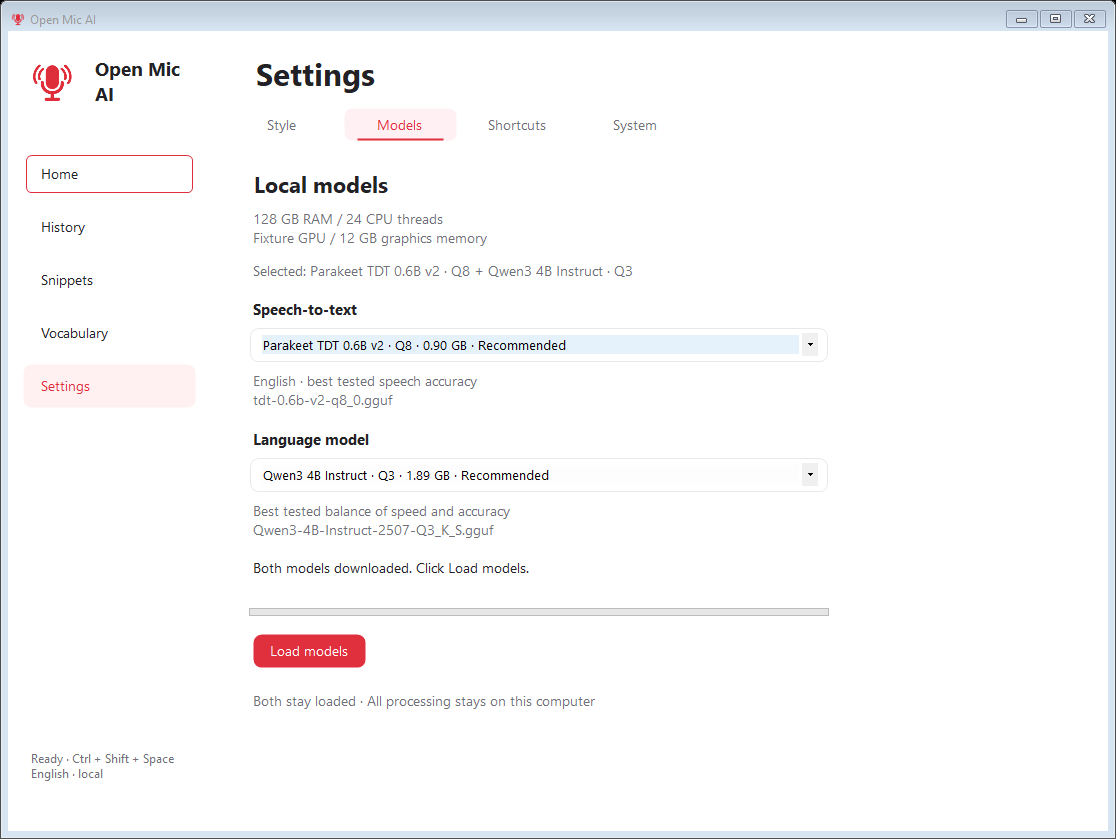
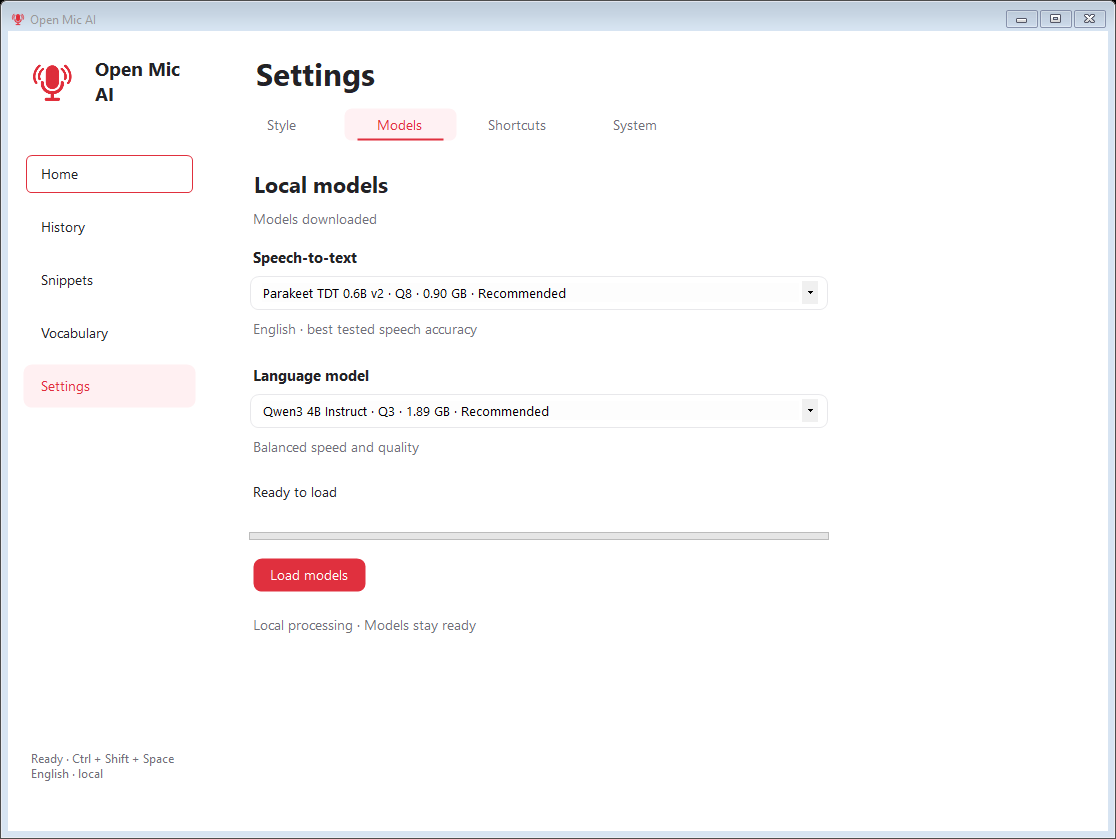
Refine wording controls and fix Mac shortcut compilation

diff --git a/macos/Sources/OpenMicAI/AppState.swift b/macos/Sources/OpenMicAI/AppState.swift
@@ -1,6 +1,7 @@
 import AppKit
 import AVFoundation
 import ApplicationServices
+import Carbon
 import OpenMicCore
 
 @MainActor final class AppState: ObservableObject {
@@ -39,7 +40,9 @@ import OpenMicCore
         root = dataRoot
         try FileManager.default.createDirectory(at: dataRoot, withIntermediateDirectories: true)
         func read<T: Decodable>(_ name: String, _ fallback: T) -> T { (try? JSONDecoder().decode(T.self, from: Data(contentsOf: dataRoot.appendingPathComponent(name)))) ?? fallback }
-        preferences = read("preferences.json", Preferences()); history = read("history.json", []); snippets = read("snippets.json", []); vocabulary = read("vocabulary.json", [])
+        var recommended = Preferences()
+        if ProcessInfo.processInfo.physicalMemory < 12 * 1_073_741_824 { recommended.speechModel = "ggml-base.en.bin"; recommended.languageModel = "Qwen3-1.7B-Q4_K_M.gguf" }
+        preferences = read("preferences.json", recommended); history = read("history.json", []); snippets = read("snippets.json", []); vocabulary = read("vocabulary.json", [])
         models = try LocalModels(root: root)
         models.status = { [weak self] in self?.status = $0 }
         hotkey.pressed = { [weak self] in self?.shortcut() }

diff --git a/macos/Sources/OpenMicAI/Hotkey.swift b/macos/Sources/OpenMicAI/Hotkey.swift
@@ -16,7 +16,7 @@ import Carbon
             let released = GetEventKind(event) == UInt32(kEventHotKeyReleased)
             DispatchQueue.main.async { if !owner.capturing { if released { owner.released() } else { owner.pressed() } } }
             return noErr
-        }, UInt32(events.count), &events, pointer, &handler)
+        }, events.count, &events, pointer, &handler)
     }
     func register(code: UInt32, modifiers: UInt32) throws {
         let identifier = EventHotKeyID(signature: 0x4F4D4943, id: 1)

diff --git a/windows/validation/FeatureChecks.cs b/windows/validation/FeatureChecks.cs
@@ -37,17 +37,17 @@ public static class FeatureChecks {
         }
         Settings prefs=new Settings {SaveHistory=false,ShowBar=false,HoldMouse="Mouse 5",Cleanup="Medium",Sounds=true,MutePlayback=true};prefs.Save(root);Settings restored=Settings.Load(root);check(!restored.SaveHistory&&!restored.ShowBar&&restored.HoldMouse=="Mouse 5"&&restored.Cleanup=="Medium"&&restored.Sounds&&restored.MutePlayback,"Settings survive restart");
         using(SettingsWindow window=new SettingsWindow(prefs,new[]{"Ctrl + Shift + Space"})){Settings saved=null;window.Saved=value=>saved=value;window.Show();window.SelectSection("Style");ChoiceCard[] options=All(window).OfType<ChoiceCard>().Where(c=>StyleOptions.Names.Contains(c.Caption)).ToArray();check(options.Select(c=>c.Caption).SequenceEqual(StyleOptions.Names),"Style has exactly four clear cards");check(!All(window).OfType<ComboBox>().Any(c=>c.Items.Contains("Default")),"Style for and app overrides are removed");options.Single(c=>c.Caption=="Raw transcript").Checked=true;All(window).OfType<Button>().Single(b=>b.Text=="Save style").PerformClick();check(saved!=null&&!saved.Rewrite&&saved.Cleanup=="None"&&saved.Style=="Original transcript"&&!saved.SaveHistory&&saved.HoldMouse=="Mouse 5","Raw transcript bypasses AI and preserves unrelated preferences");
-            ChoiceCard card=options.Single(c=>c.Caption=="Polish");PostMessage(card.Handle,0x201,new IntPtr(1),new IntPtr((25<<16)|25));PostMessage(card.Handle,0x202,IntPtr.Zero,new IntPtr((25<<16)|25));await Task.Delay(80);check(card.Checked&&options.Count(c=>c.Checked)==1,"Clicking a style card selects exactly one style");All(window).OfType<Button>().Single(b=>b.Text=="Save style").PerformClick();check(saved.Style=="Smart formatting"&&saved.Cleanup=="Medium"&&saved.Rewrite,"Polish enables cleanup and formatting");options.Single(c=>c.Caption=="Clean up").Checked=true;All(window).OfType<Button>().Single(b=>b.Text=="Save style").PerformClick();check(saved.Style=="Keep my wording"&&saved.Cleanup=="Light","Clean up selects minimal filler and grammar editing");
+            ChoiceCard card=options.Single(c=>c.Caption=="Polish");PostMessage(card.Handle,0x201,new IntPtr(1),new IntPtr((25<<16)|25));PostMessage(card.Handle,0x202,IntPtr.Zero,new IntPtr((25<<16)|25));await Task.Delay(80);check(card.Checked&&options.Count(c=>c.Checked)==1,"Clicking a style card selects exactly one style");All(window).OfType<Button>().Single(b=>b.Text=="Save style").PerformClick();check(saved.Style=="Smart formatting"&&saved.Cleanup=="Medium"&&saved.Rewrite,"Polish enables cleanup and formatting");ChoiceCard own=All(window).OfType<ChoiceCard>().Single(c=>c.Caption=="My words"),reword=All(window).OfType<ChoiceCard>().Single(c=>c.Caption=="Reworded");check(own.Visible&&reword.Visible&&own.Checked&&!saved.PolishReworded,"Polish shows two wording options with My words selected by default");reword.Checked=true;All(window).OfType<Button>().Single(b=>b.Text=="Save style").PerformClick();check(saved.PolishReworded&&!own.Checked&&reword.Checked,"Reworded selects exclusively and saves with Polish");saved.Save(root);check(Settings.Load(root).PolishReworded&&StyleRouting.Resolve(saved,"fixture").PolishReworded,"Polish wording option survives restart and reaches dictation routing");own.Checked=true;All(window).OfType<Button>().Single(b=>b.Text=="Save style").PerformClick();check(!saved.PolishReworded,"My words can be restored");options.Single(c=>c.Caption=="Clean up").Checked=true;All(window).OfType<Button>().Single(b=>b.Text=="Save style").PerformClick();check(saved.Style=="Keep my wording"&&saved.Cleanup=="Light","Clean up selects minimal filler and grammar editing");
             options.Single(c=>c.Caption=="Custom").Checked=true;TextBox instructions=All(window).OfType<TextBox>().Single(t=>t.Multiline);instructions.Text="Use short sentences.";All(window).OfType<Button>().Single(b=>b.Text=="Save style").PerformClick();check(saved.Style=="Custom"&&saved.Custom==instructions.Text&&instructions.Visible&&instructions.Height>=200,"Custom reveals a large inline prompt box and saves instructions");saved.AppStyles.Add(new AppStyle {Application="chrome",Style="Professional",Cleanup="Light"});check(StyleRouting.Resolve(saved,"CHROME").Style=="Custom"&&StyleRouting.Resolve(saved,"other").Custom==instructions.Text,"One global style applies across every app even with legacy overrides");saved.Save(root);check(StyleOptions.Selected(Settings.Load(root))=="Custom","Global custom style survives restart");All(window).OfType<Button>().Single(b=>b.Text=="Save style").PerformClick();check(saved.AppStyles.Count==0,"Saving global style clears legacy app overrides");check(All(window).OfType<TabPage>().Select(t=>t.Text).SequenceEqual(new[]{"Style","Models","Shortcuts","System"}),"Settings has four focused sections");window.Close();}
         UsageStore usage=new UsageStore(root);usage.Record("one two three four","One two three four.",2,"chrome",DateTime.Now.Date.ToUniversalTime());usage.Record("five six","five six",1,"chrome",DateTime.Now.Date.AddDays(-1).ToUniversalTime());await usage.FlushAsync();UsageStore resumed=new UsageStore(root);check(resumed.Data.Words==6&&resumed.Data.Sessions==2&&resumed.WordsPerMinute==120&&resumed.Streak(DateTime.Today)==2,"Local usage totals, speaking rate and streak survive restart");string stats=File.ReadAllText(Path.Combine(root,"usage.json"));check(!stats.Contains("one two")&&!stats.Contains("five six"),"Usage stores counts without spoken text");resumed.Record("untimed sample","",0,"Other",DateTime.UtcNow);check(resumed.WordsPerMinute==120,"Untimed text does not distort speaking speed");resumed.Clear();await resumed.FlushAsync();check(new UsageStore(root).Data.Sessions==0,"Reset usage clears saved statistics");
         HistoryStore history=new HistoryStore(root);history.Add("um please send the report tomorrow","Please send the report tomorrow.","Keep my wording");await history.FlushAsync();
-        Settings hubPrefs=new Settings();Func<ModelWindow> factory=()=>new ModelWindow(fixture,hubPrefs,new ComputerSpecs {RamBytes=128L*1073741824,GpuBytes=12L*1073741824,Gpu="Fixture GPU"});
+        Settings hubPrefs=new Settings();StyleOptions.Apply(hubPrefs,"Polish");Func<ModelWindow> factory=()=>new ModelWindow(fixture,hubPrefs,new ComputerSpecs {RamBytes=128L*1073741824,GpuBytes=12L*1073741824,Gpu="Fixture GPU"});
         using(HubWindow hub=new HubWindow(history,personal,usage,()=>hubPrefs,value=>hubPrefs=value,factory,new[]{"Ctrl + Shift + Space"},"Ctrl + Shift + E")) {
             hub.Show();hub.SetStatus("Ready · Ctrl + Shift + Space");await Task.Delay(120);check(Field<FlowLayoutPanel>(hub,"navigation").Controls.OfType<Button>().Select(b=>b.Text).SequenceEqual(new[]{"Home","History","Snippets","Vocabulary","Settings"}),"Sidebar has five focused sections with Features and Scratchpad removed");
             foreach(string page in new[]{"Home","Vocabulary","Snippets","Settings","Style","Models","History"}){hub.Navigate(page);await Task.Delay(70);check(Field<Form>(hub,"page")!=null,"Hub navigation works: "+page);Render(hub,"hub-"+page.ToLowerInvariant()+".png",output);}
             hub.Navigate("History");check(!All(Field<Form>(hub,"page")).OfType<Button>().Any(b=>b.Text.Contains("Home"))&&!Field<Panel>(hub,"content").Controls.OfType<Panel>().Any(),"History has no top back or Home button");
             for(int i=0;i<7;i++)history.Add("Synthetic dictation "+i,"Synthetic dictation "+i,"Clean up");history.Add("Source","Summary","Summarize","Source");hub.Navigate("Home");check(All(hub).OfType<Button>().Count(b=>b.Text=="Copy")==5,"Home shows only the five latest dictations");
-            hub.Navigate("Models");ModelWindow models=All(hub).OfType<ModelWindow>().Single();check(!models.TopLevel&&models.Visible&&Application.OpenForms.Cast<Form>().Count(f=>f.TopLevel&&f is ModelWindow)==0,"Models remain embedded in Settings without a popup");check(All(models).OfType<Label>().Any(l=>l.Text.Contains("tdt-0.6b-v2-q8_0.gguf"))&&All(models).OfType<Label>().Any(l=>l.Text.Contains("Qwen3-4B-Instruct-2507-Q3_K_S.gguf")),"Models displays both exact model names and roles");bool applied=false;models.ApplyModels=pair=>Task.FromResult(applied=pair.Id=="balanced");All(models).OfType<Button>().Single(b=>b.Text=="Load models").PerformClick();for(int i=0;i<150&&!applied;i++)await Task.Delay(100);check(applied&&models.Visible&&!models.IsDisposed,"Installed models can be verified and applied without closing Settings");
+            hub.Navigate("Models");ModelWindow models=All(hub).OfType<ModelWindow>().Single();check(!models.TopLevel&&models.Visible&&Application.OpenForms.Cast<Form>().Count(f=>f.TopLevel&&f is ModelWindow)==0,"Models remain embedded in Settings without a popup");check(All(models).OfType<ComboBox>().Any(c=>c.AccessibleName=="Speech-to-text"&&((ModelFile)c.SelectedItem).Name=="tdt-0.6b-v2-q8_0.gguf")&&All(models).OfType<ComboBox>().Any(c=>c.AccessibleName=="Language model"&&((ModelFile)c.SelectedItem).Name=="Qwen3-4B-Instruct-2507-Q3_K_S.gguf"),"Models displays both exact model names and roles");bool applied=false;models.ApplyModels=pair=>Task.FromResult(applied=pair.Id=="balanced");All(models).OfType<Button>().Single(b=>b.Text=="Load models").PerformClick();for(int i=0;i<150&&!applied;i++)await Task.Delay(100);check(applied&&models.Visible&&!models.IsDisposed,"Installed models can be verified and applied without closing Settings");
             hub.ClientSize=new Size(950,740);hub.Navigate("Style");hub.PerformLayout();SettingsWindow settings=Field<Form>(hub,"page") as SettingsWindow;check(settings!=null&&All(settings).OfType<Button>().Single(b=>b.Text=="Save style").Right<=settings.ClientSize.Width,"Settings fit the minimum hub size");Render(hub,"hub-style-minimum.png",output);hub.Navigate("Snippets");All(hub).OfType<Button>().Single(b=>b.Text=="Add snippet").PerformClick();Render(hub,"hub-snippet-editor-minimum.png",output);hub.Close();
         }
         using(Pill bar=new Pill()){bar.Persistent=true;bar.Available=true;int starts=0;bar.Start=()=>starts++;bar.ShowIdle();await Task.Delay(60);check(bar.Idle&&bar.ResultReady==false&&bar.Width<=247&&bar.Height<=38,"Compact bar shows idle dictation controls");Render(bar,"flow-bar-preview.png",output);PostMessage(bar.Handle,0x201,new IntPtr(1),new IntPtr((19<<16)|80));PostMessage(bar.Handle,0x202,IntPtr.Zero,new IntPtr((19<<16)|80));await Task.Delay(60);check(starts==1,"Persistent bar starts dictation with one click");FocusTarget focus=FocusTarget.Capture();Point origin=bar.Location;PostMessage(bar.Handle,0x201,new IntPtr(1),new IntPtr((19<<16)|12));PostMessage(bar.Handle,0x200,new IntPtr(1),new IntPtr((40<<16)|52));PostMessage(bar.Handle,0x202,IntPtr.Zero,new IntPtr((19<<16)|12));await Task.Delay(80);check(bar.Pinned&&bar.Location!=origin&&focus.MatchesCurrent(),"Bar drags freely without taking focus or triggering dictation");Point pinned=bar.Location;bar.Place(form.Handle);check(bar.Location==pinned,"Pinned bar position survives field changes");bar.Prepare("Listening",true);bar.UpdateTranscript("Please send the report to Sarah tomorrow.");bar.Reveal();check(bar.TranscriptText.Contains("Sarah")&&Field<System.Windows.Forms.Timer>(bar,"animation").Enabled,"Recording bar shows recognized text and animates");Render(bar,"recording-pill.png",output);bar.ShowProcessing(true);await Task.Delay(100);check(bar.Processing&&!bar.Recording&&bar.TranscriptText.Contains("Sarah")&&Field<System.Windows.Forms.Timer>(bar,"animation").Enabled,"AI polishing keeps the transcript visible with an animation");Render(bar,"polishing-pill.png",output);bar.ShowResult("Fixture",false,true,form.Handle);bar.Conceal();check(bar.Idle&&!bar.ResultReady&&!bar.Processing,"Dismissing a result returns to the permanent bar");bar.Persistent=false;bar.Conceal();}

diff --git a/windows/src/ModelLibrary.cs b/windows/src/ModelLibrary.cs
@@ -195,7 +195,7 @@ public sealed class ModelWindow : Form {
         speechChoice.SelectedIndexChanged+=(s,e)=>RefreshChoice();textChoice.SelectedIndexChanged+=(s,e)=>RefreshChoice();RefreshChoice();UpdateStatus("",settings);Theme.Apply(this);
     }
     static Label Heading(string title){return new Label {Text=title,AutoSize=true,Font=new Font("Segoe UI",11,FontStyle.Bold),Margin=new Padding(0,7,0,8)};}
-    static Label Description(){return new Label {Size=new Size(580,43),ForeColor=Theme.Muted,Margin=new Padding(0,0,0,8)};}
+    static Label Description(){return new Label {Size=new Size(580,25),ForeColor=Theme.Muted,Margin=new Padding(0,0,0,14)};}
     static ComboBox Selector(ModelFile[] files,ModelFile current,ModelFile recommended,string role){ComboBox box=new ComboBox {Width=580,DropDownStyle=ComboBoxStyle.DropDownList,AccessibleName=role,Name=role,Margin=new Padding(0,0,0,8),FormattingEnabled=true};box.Items.AddRange(files);box.Format+=(s,e)=>{ModelFile file=(ModelFile)e.ListItem;e.Value=file.ToString()+(file==recommended?" · Recommended":"");};box.SelectedItem=current;return box;}
     public void UpdateStatus(string text,Settings settings){ModelPair pair=ModelLibrary.Find(settings.Speech,settings.Text);bool ready=text.StartsWith("Ready");loaded.Text=pair!=null&&ModelLibrary.Installed(root,pair)?(ready?"Models ready":"Models downloaded"):"Choose your models";if(!busy&&pair!=null&&pair.Speech==Choice.Speech&&pair.Text==Choice.Text&&ready)state.Text="Ready";}
     void RefreshChoice(){ModelPair pair=Choice;speechName.Text=pair.Speech.Detail;textName.Text=pair.Text.Detail;long needed=new[]{pair.Speech,pair.Text}.Where(f=>!ModelLibrary.Installed(root,f)).Sum(f=>f.Bytes);state.Text=needed==0?"Ready to load":(needed/1000000000.0).ToString("0.00")+" GB download";install.Text=needed==0?"Load models":"Download & load models";}

diff --git a/windows/src/Brand.cs b/windows/src/Brand.cs
@@ -6,8 +6,8 @@ using System.Reflection;
 [assembly: AssemblyTitle("Open Mic AI")]
 [assembly: AssemblyProduct("Open Mic AI")]
 [assembly: AssemblyDescription("Local dictation, rewriting, translation and summaries")]
-[assembly: AssemblyVersion("3.2.0.0")]
-[assembly: AssemblyFileVersion("3.2.0.0")]
+[assembly: AssemblyVersion("3.3.0.0")]
+[assembly: AssemblyFileVersion("3.3.0.0")]
 
 namespace LocalFlow {
 public static class Brand {
